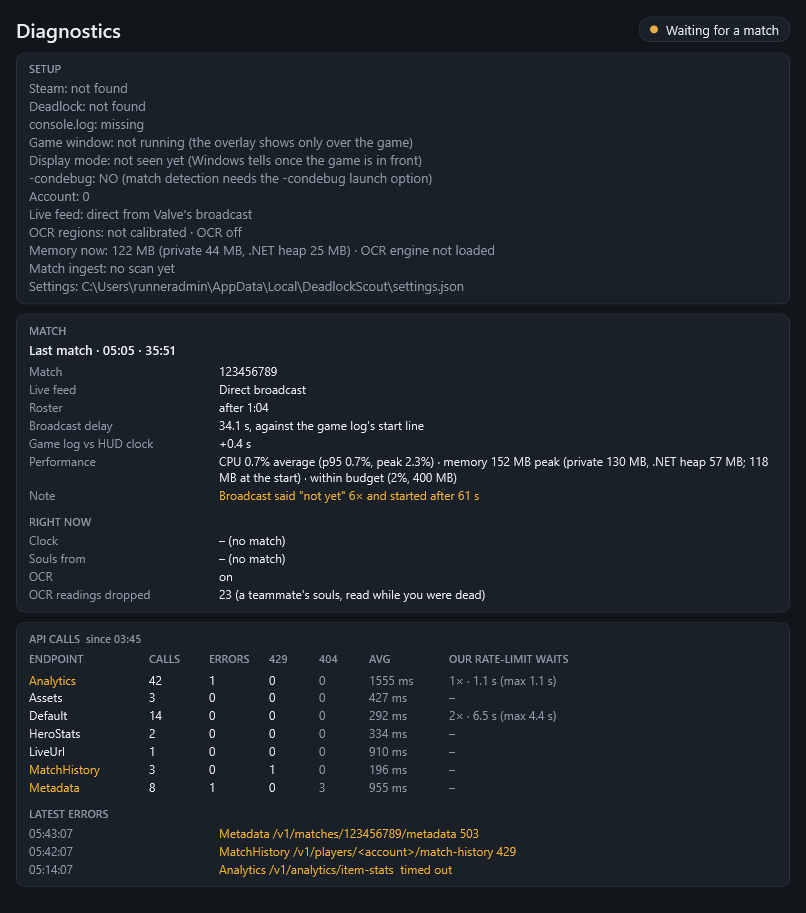
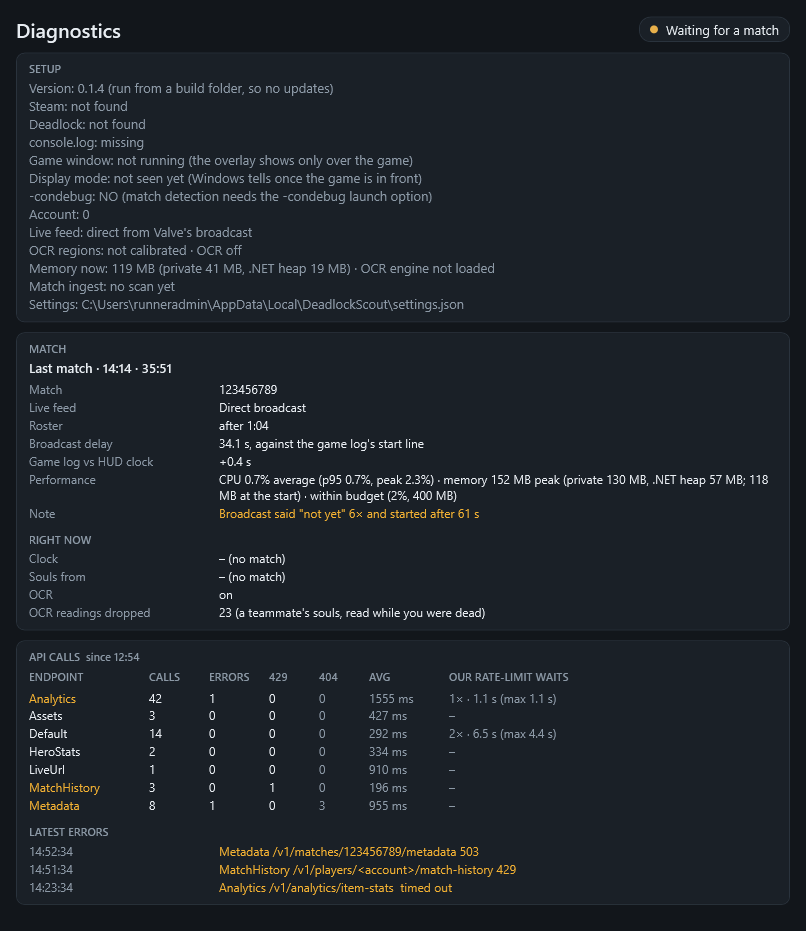
Version 0.1.4: Diagnostics shows the version and the last update check (#106)
* Version 0.1.4: Diagnostics shows the version and the last update check

- Diagnostics' setup lines start with "Version: 0.1.4 (installed) · update
  check HH:mm: up to date" (or what the check found: an update, a refused
  release, GitHub unreachable; a build-folder copy says it gets no updates).
- UpdateService keeps the last check's time and result.
- Version 0.1.3 -> 0.1.4: the Send my matches button (PR 105) and this line.

Claude-Session: https://claude.ai/code/session_01LSDkBn23Na5vMSKWLtGadZ

* Update app screenshots

---------

diff --git a/src/DeadlockScout.App/MainWindow.xaml.cs b/src/DeadlockScout.App/MainWindow.xaml.cs
@@ -59,6 +59,7 @@ public partial class MainWindow : Window
     private MatchHistoryWindow? _history;
     private readonly MatchHistoryService _historyService;
     private readonly SaltIngest _ingest;
+    private readonly UpdateService _updates;
     private readonly ItemIcons _icons;
     private bool _exiting, _hiddenOnce;
 
@@ -70,10 +71,11 @@ public partial class MainWindow : Window
     public MainWindow(OverlayState state, OverlayWindow overlay, JsonSettingsMonitor settings, GamePaths paths, AssetCatalog assets, IOcrEngine ocr,
                       MatchHistoryService historyService, ItemIcons icons, MatchSession session, CompositeBenchmark benchmark, BuildHintService builds,
                       AudioCuePlayer audio, DiagnosticsLog diagnostics, OcrSoulSource ocrSource, OcrJumpGuard guard, CounterItemService counters,
-                      SoulSourceService sources, SaltIngest ingest)
+                      SoulSourceService sources, SaltIngest ingest, UpdateService updates)
     {
         InitializeComponent();
         _ingest = ingest;
+        _updates = updates;
         _counters = counters;
         _sources = sources;
         _diagnostics = diagnostics; _ocrSource = ocrSource; _guard = guard;
@@ -119,13 +121,22 @@ public partial class MainWindow : Window
         return $"{Mb(self.WorkingSet64)} (private {Mb(self.PrivateMemorySize64)}, .NET heap {Mb(GC.GetTotalMemory(false))}){ocr}";
     }
 
+    /// <summary>"0.1.4 (installed) · update check 14:02: up to date": what runs, and what the updater last found.</summary>
+    private string VersionLine()
+    {
+        string where = UpdateService.IsInstalled ? "installed" : "run from a build folder, so no updates";
+        string check = !UpdateService.IsInstalled ? ""
+            : _updates.LastCheck is { } c ? $" · update check {c.At.ToLocalTime():HH:mm}: {c.Result}" : " · no update check yet";
+        return $"{UpdateService.Running.ToString(3)} ({where}){check}";
+    }
+
     public void RefreshDetection()
     {
         var steam = _paths.SteamPath ?? "not found";
         var game = _paths.DeadlockPath ?? "not found";
         var log = _paths.ConsoleLogPath;
         string condebug = _paths.HasCondebug ? "yes" : "NO (match detection needs the -condebug launch option)";
-        _state.Status.Detection = $"Steam: {steam}\nDeadlock: {game}\nconsole.log: {(log is not null && File.Exists(log) ? "present" : "missing")}\nGame window: {GameWindowStatus()}\nDisplay mode: {(_state.DisplaySeen is { Length: > 0 } seen ? seen : "not seen yet (Windows tells once the game is in front)")}\n-condebug: {condebug}\nAccount: {_paths.AccountId}\nLive feed: {_settings.CurrentValue.Api.LiveSource switch { DeadlockScout.Core.Settings.LiveSource.SelfHosted => "self-hosted at " + _settings.CurrentValue.Api.LiveUrl, DeadlockScout.Core.Settings.LiveSource.Direct => "direct from Valve's broadcast", _ => "hosted (api.deadlock-api.com)" }}\nOCR regions: {OcrRegionSummary()}\nMemory now: {MemoryNow()}\nMatch ingest: {SaltIngest.Summary(_ingest.LastRun)}\nSettings: {_settings.Path}";
+        _state.Status.Detection = $"Version: {VersionLine()}\nSteam: {steam}\nDeadlock: {game}\nconsole.log: {(log is not null && File.Exists(log) ? "present" : "missing")}\nGame window: {GameWindowStatus()}\nDisplay mode: {(_state.DisplaySeen is { Length: > 0 } seen ? seen : "not seen yet (Windows tells once the game is in front)")}\n-condebug: {condebug}\nAccount: {_paths.AccountId}\nLive feed: {_settings.CurrentValue.Api.LiveSource switch { DeadlockScout.Core.Settings.LiveSource.SelfHosted => "self-hosted at " + _settings.CurrentValue.Api.LiveUrl, DeadlockScout.Core.Settings.LiveSource.Direct => "direct from Valve's broadcast", _ => "hosted (api.deadlock-api.com)" }}\nOCR regions: {OcrRegionSummary()}\nMemory now: {MemoryNow()}\nMatch ingest: {SaltIngest.Summary(_ingest.LastRun)}\nSettings: {_settings.Path}";
         if (_settings.LastError is { } err) _state.Status.Warning = err;
     }
 

diff --git a/src/DeadlockScout.App/Services/UpdateService.cs b/src/DeadlockScout.App/Services/UpdateService.cs
@@ -36,6 +36,9 @@ public sealed class UpdateService : BackgroundService
         _log = log;
     }
 
+    /// <summary>When the last check ran (scheduled or asked for) and what it found, for Diagnostics; null before the first.</summary>
+    public (DateTimeOffset At, string Result)? LastCheck { get; private set; }
+
     /// <summary>A signed, newer release found by the last check; null when there is none.</summary>
     public UpdateCheck? Offer { get; private set; }
 
@@ -96,6 +99,7 @@ public sealed class UpdateService : BackgroundService
             {
                 bool newer = Offer?.Manifest is not { } prev || Version.Parse(check.Manifest!.Version) > Version.Parse(prev.Version);
                 Offer = check;
+                LastCheck = (DateTimeOffset.UtcNow, $"{check.Manifest!.Version} available");
                 _log.LogInformation("Update {Version} is available (signed, valid until {Expires:yyyy-MM-dd})", check.Manifest!.Version, check.Manifest.Expires);
                 if (newer) OfferFound?.Invoke(check);
             }
@@ -103,16 +107,23 @@ public sealed class UpdateService : BackgroundService
             {
                 // Worth a line: a release on GitHub that the app refuses is either a mistake or someone else's upload.
                 _log.LogWarning("Latest release refused: {Verdict} ({Note})", check.Verdict, check.Note);
+                LastCheck = (DateTimeOffset.UtcNow, $"latest release refused ({check.Verdict})");
             }
             else
             {
                 // One line per check, so the log answers "did it look, and what did it find?" on its own.
                 _log.LogInformation("Update check: {Running} is up to date ({Note})", Running, check.Note ?? "latest release");
+                LastCheck = (DateTimeOffset.UtcNow, "up to date");
             }
             return check;
         }
         catch (OperationCanceledException) when (ct.IsCancellationRequested) { throw; }
-        catch (Exception ex) { _log.LogInformation(ex, "Update check failed; trying again later"); return null; }
+        catch (Exception ex)
+        {
+            _log.LogInformation(ex, "Update check failed; trying again later");
+            LastCheck = (DateTimeOffset.UtcNow, "could not reach GitHub");
+            return null;
+        }
         finally { _checking.Release(); }
     }
 

diff --git a/docs/features.md b/docs/features.md
@@ -19,7 +19,7 @@ window.
 - **Enemy pace board and lane card**, with **power-spike alerts**: when an enemy buys a 6,400-soul item, one of the items that lift their hero's win rate most at your rank, or unlocks their ultimate, their row flashes "just got Leech" for 30 seconds and then keeps the item as a chip with its icon. Beside it, **what they usually buy next**: the big item each enemy buys in at least half of their games on that hero, with their usual time ("next: Boundless Spirit ~34:08"), until they have it (hover for their whole usual order). One analytics call per enemy, cached a day; `overlay.panels.enemyTendencies` turns it off. Items come from the Direct live feed (the hosted feed has none); `overlay.panels.spikes` turns it off (see the milestones in [`docs/architecture-seed.md`](architecture-seed.md)).
 - **Audio cues** (opt-in, off by default): DeadlockScout's own short sounds, never the game's: two rising beeps when a laning timer says push now, a chime 30 s before the mid boss's estimated return or the next urn, and two falling tones after a minute more than 5% under the rank gate (at most every 3 minutes). Each has its own switch in Settings, with a volume slider and a Test button.
 - **First-run wizard**: opens at the first start (and from the tray after): finds Steam, Deadlock and your account (or takes them typed), adds `-condebug` while Steam is closed, reads Deadlock's display mode from its `video.txt` and says if exclusive fullscreen would hide the overlay (the app never changes the game's settings), offers OCR with the calibration tool, and ends on the demo lobby. Each step shows a tick, a warning or a cross.
-- **Diagnostics page**: from the main window's Diagnostics button or the tray. Setup and detection (Steam, Deadlock, console.log, the game window, `-condebug`, the live feed and OCR; moved here from the top of the main window, which now only shows a warning when something needs you), the last match (its live feed and any fallback, how long the roster took, the broadcast's delay, the game log's clock against the HUD clock, notes such as a broadcast that kept saying "not yet", and the app's own CPU and memory during it against the 1.0 budget of 2% CPU and 200 MB, also written to the log at each match's end), what the app uses right now (clock, souls source, OCR read rate, teammate readings dropped), and every API call since the app started: calls, errors, 429s and 404s per endpoint, average time and our own rate-limit waits, with the latest errors. **Copy diagnostics** puts it all on the clipboard for a bug report without account ids, player names, your Windows user name or the API key. **Open log folder** opens the app's log, one file a day in `%LOCALAPPDATA%\DeadlockScout\logs` with the last week kept (it can hold account ids and player names, so send Copy diagnostics rather than the file).
+- **Diagnostics page**: from the main window's Diagnostics button or the tray. The version that runs (installed or from a build folder) and what the last update check found, then setup and detection (Steam, Deadlock, console.log, the game window, `-condebug`, the live feed and OCR; moved here from the top of the main window, which now only shows a warning when something needs you), the last match (its live feed and any fallback, how long the roster took, the broadcast's delay, the game log's clock against the HUD clock, notes such as a broadcast that kept saying "not yet", and the app's own CPU and memory during it against the 1.0 budget of 2% CPU and 200 MB, also written to the log at each match's end), what the app uses right now (clock, souls source, OCR read rate, teammate readings dropped), and every API call since the app started: calls, errors, 429s and 404s per endpoint, average time and our own rate-limit waits, with the latest errors. **Copy diagnostics** puts it all on the clipboard for a bug report without account ids, player names, your Windows user name or the API key. **Open log folder** opens the app's log, one file a day in `%LOCALAPPDATA%\DeadlockScout\logs` with the last week kept (it can hold account ids and player names, so send Copy diagnostics rather than the file).
 - **Settings window**: every option in one place, from the main window's Settings button or the tray: overlay panels, scout list and hotkeys, the rank gate, laning timers and their spawn times, objectives, audio cues, live feed and API key, benchmarks, OCR (with the calibration tool), and session and launch options. Changes apply at once and are written to settings.json; bad input is not saved and the field shows the stored value again.
 - **Laning timers**: the jungle's first spawns (small camps 2:00, crates 3:00, medium camps and Midtown crates 5:00, large camps and Sinner's Sacrifice 8:00) counting down, each row turning gold with "push now" 30 seconds before its spawn so you shove your wave and are free when it appears, then green when it is up. The countdown runs on the game's live clock, not the 60–90 s late broadcast: the HUD clock when the OCR timer box is calibrated, else the console log's game-start line, else the broadcast plus an assumed delay (`timers.broadcastDelaySeconds`). Spawn times and the lead are in `timers.*`; the defaults come from community timer pages and are unverified. **Camp respawns** (Direct feed): each neutral camp cleared in the broadcast counts down to its return in the same panel ("Small camp · 30 m · in 0:45 · cleared 3:20"), for the cleared camps nearest your hero (up to `camps.maxRows`), turning gold with the same push-now lead. Camps are told apart by where their creatures spawn and their kind by when they first spawned, so a camp first seen late (the app joined mid-match) is not timed. The intervals (small 1:25, medium 4:50, large 5:35, Sinner's Sacrifice 5:00, `camps.*`) are community values not yet checked; the log records how long each respawn the app sees actually took, and ReplayCheck prints them for a replay. `overlay.panels.timers` turns the panel off, `camps.enabled` just the camp rows.
 - **Objectives**: when the mid boss died, who took its Rejuvenator and when it should be back, each team's Rejuvenator count, and when the urn appeared or was picked up. Times are game-clock times, so they line up with the in-game timer despite the broadcast delay. The broadcast has no respawn timers, so the mid boss's return is an estimate: 7 minutes until the app has seen one respawn in the match, then the observed delay (`objectives.midBossRespawnSeconds`; each observed delay is logged). Under them, **countdowns on the live clock** (the same one as the laning timers): "Mid boss back in 1:40" and "Next urn 15:00 · in 2:10", each turning gold 30 seconds before. The urn schedule (10:00, then every 5 minutes, `objectives.urnFirstSpawnSeconds`/`urnIntervalSeconds`) is checked against a real match; the app logs each urn it sees arrive. The objective lines need the Direct live feed; the urn countdown also works on the hosted feed. `overlay.panels.objectives` turns it off.
